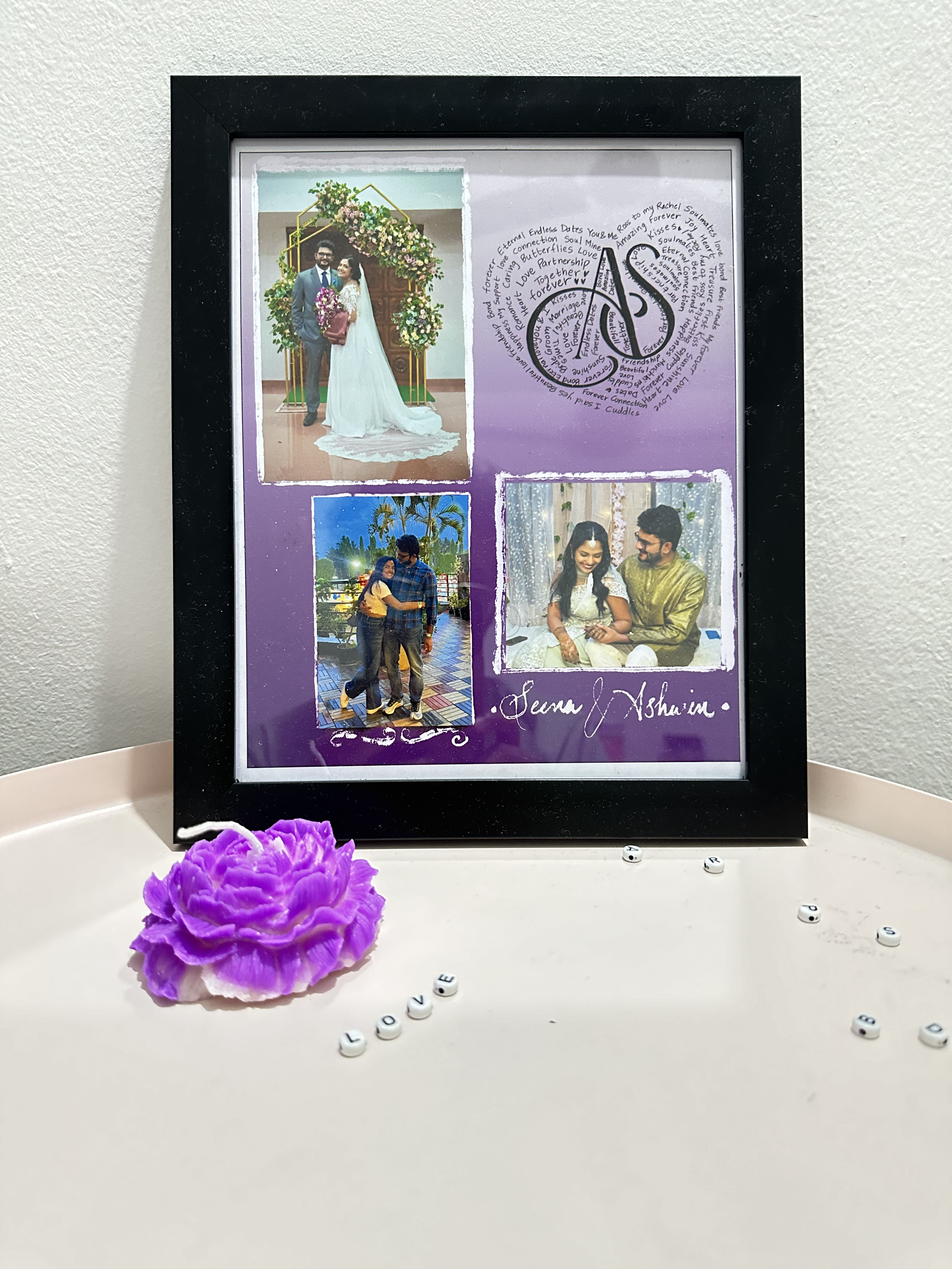
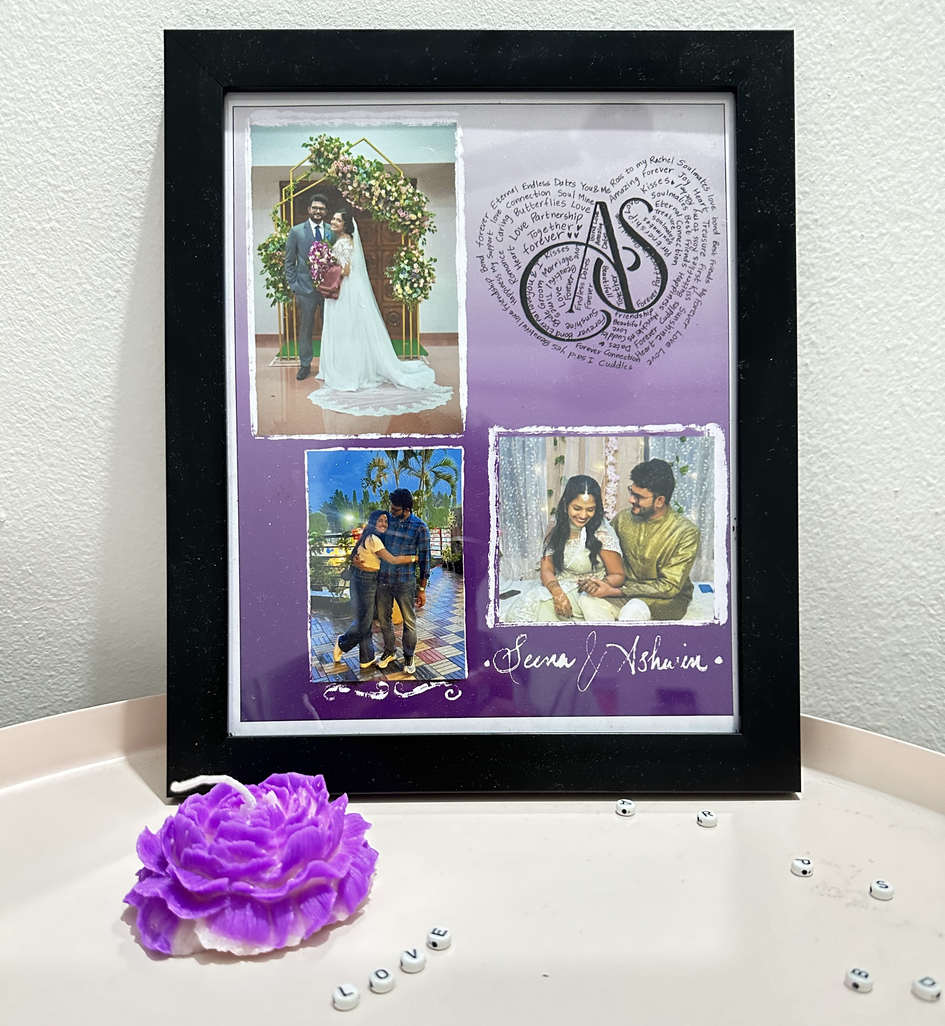
Small changes

diff --git a/lib/src/home/components/home_about_section.dart b/lib/src/home/components/home_about_section.dart
@@ -30,6 +30,7 @@ class HomeAboutSectionV2 extends StatelessWidget {
                     BorderRadius.circular(StudioSize.imageBorderRadius),
                 child: ImageWatermark(
                   assetName: StudioImages.productFrameWithCandle,
+                  fit: BoxFit.fitHeight,
                   aspectRatio: 1.3,
                 ),
               ),
@@ -53,7 +54,7 @@ class HomeAboutSectionV2 extends StatelessWidget {
                     height: 24,
                   ),
                   Text(
-                    "At Studio N, “Handmade with Love” means delivering authentic, sustainable luxury for moments that truly matter.\n\nHand-crafted with care by Maharasthra artisans, our products embody the spirit of the mountains and the art of generations. Every candle and décor piece is thoughtfully made, blending natural materials, premium 100 % natural fragrances, and a touch of tradition.",
+                    "Welcome to our cozy little creative space! We hand-pour 100% natural soy candles and illustrate custom doodle frames that tell your story. Whether you’re lighting up your room or gifting a frame filled with love, every piece is made with care, creativity, and a whole lot of heart.",
                     style: TextStyle(
                       fontSize: 18,
                       color: StudioColors.mutedForeground,

diff --git a/lib/src/home/data/home_products_repository.dart b/lib/src/home/data/home_products_repository.dart
@@ -71,8 +71,8 @@ class HomeProductsRepository {
         HomeProductItem(
           name: 'Coffee Candle',
           assetPathList: [
-            StudioImages.productCoffeeCandle1,
             StudioImages.productCoffeeCandle2,
+            StudioImages.productCoffeeCandle1,
           ].unmodifiable(),
           type: HomeProductType.scentedCandles,
         ),
